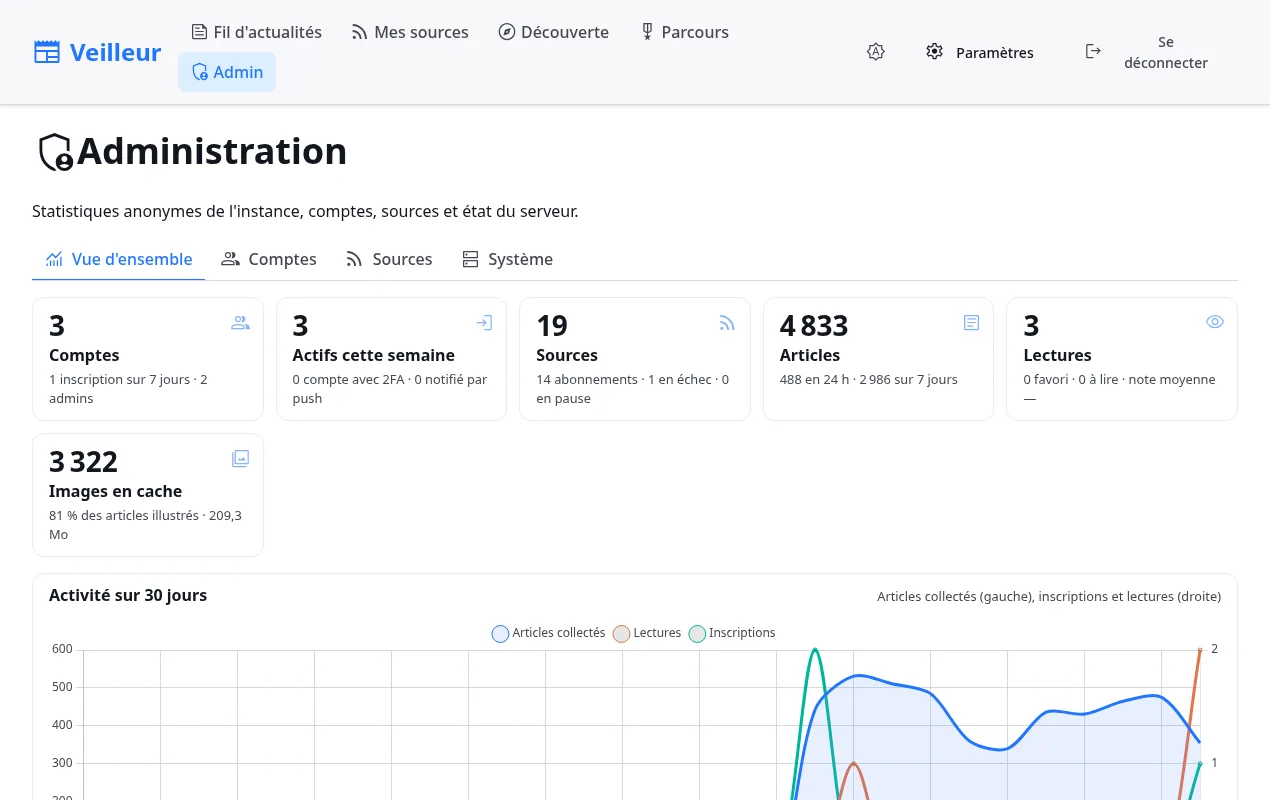
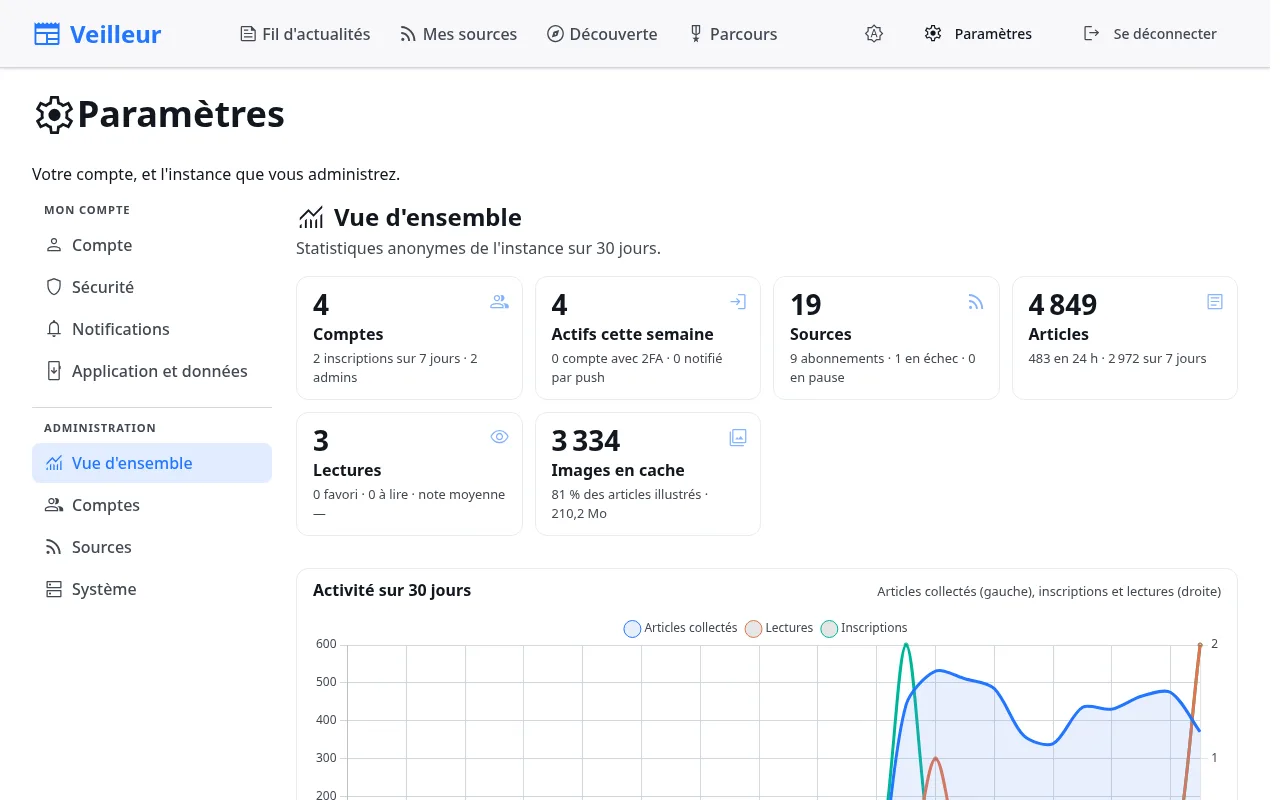
Veilleur 0.22.1 : paramètres unifiés, capture du tableau de bord

diff --git a/index.html b/index.html
@@ -1109,7 +1109,7 @@
         </div>
         <img class="fc-shot" src="shots/veilleur.webp" alt="Veilleur — fil d'actualités habillé par Lunar Aurora : rubriques, tendances, mots-clés, filtres, notes et favoris" loading="lazy">
         <div class="fc-title">veilleur</div>
-        <div class="fc-desc">Agr&eacute;gateur d'actualit&eacute;s libre, ta sentinelle de l'information : colle l'adresse d'un site et le flux est trouv&eacute; tout seul. Un seul fil sans algorithme, rang&eacute; par rubriques, class&eacute; par mots-cl&eacute;s extraits de chaque article et par tendances du moment ; tu notes, mets en favori, gardes &laquo; &agrave; lire &raquo;, lis en place sans quitter le fil, puis tu exportes tout. C&ocirc;t&eacute; communaut&eacute; : sources sugg&eacute;r&eacute;es, articles pl&eacute;biscit&eacute;s, classement sous pseudo avec niveaux, badges et s&eacute;rie de lecture. Notifications push, r&eacute;sum&eacute; courriel du matin, et &ccedil;a s'installe comme une appli, consultable hors ligne. 📰🔔🏅 L'admin de l'instance a son tableau de bord : stats anonymes, graphiques sur 30 jours, comptes et sources 🛡</div>
+        <div class="fc-desc">Agr&eacute;gateur d'actualit&eacute;s libre, ta sentinelle de l'information : colle l'adresse d'un site et le flux est trouv&eacute; tout seul. Un seul fil sans algorithme, rang&eacute; par rubriques, class&eacute; par mots-cl&eacute;s extraits de chaque article et par tendances du moment ; tu notes, mets en favori, gardes &laquo; &agrave; lire &raquo;, lis en place sans quitter le fil, puis tu exportes tout. C&ocirc;t&eacute; communaut&eacute; : sources sugg&eacute;r&eacute;es, articles pl&eacute;biscit&eacute;s, classement sous pseudo avec niveaux, badges et s&eacute;rie de lecture. Notifications push, r&eacute;sum&eacute; courriel du matin, et &ccedil;a s'installe comme une appli, consultable hors ligne. 📰🔔🏅 L'admin de l'instance retrouve dans ses paramètres un tableau de bord : stats anonymes, graphiques sur 30 jours, comptes et sources dans des tables triables 🛡</div>
         <div class="fc-tags">
           <span class="fc-tag">RSS</span>
           <span class="fc-tag">Fastify</span>
